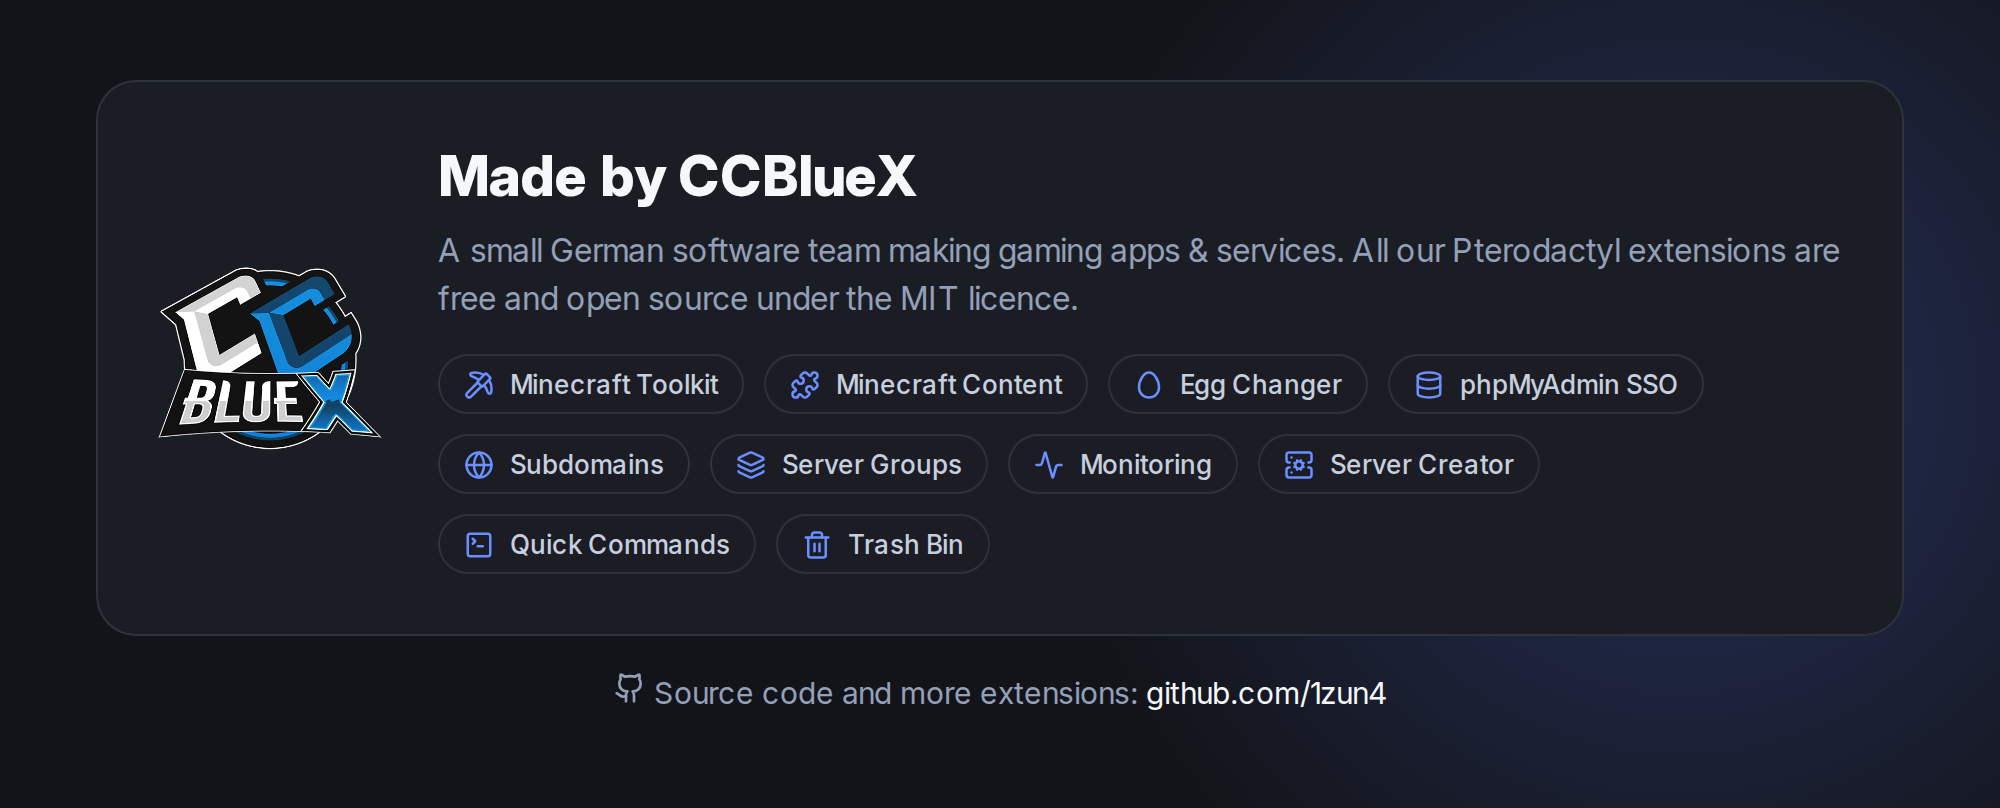
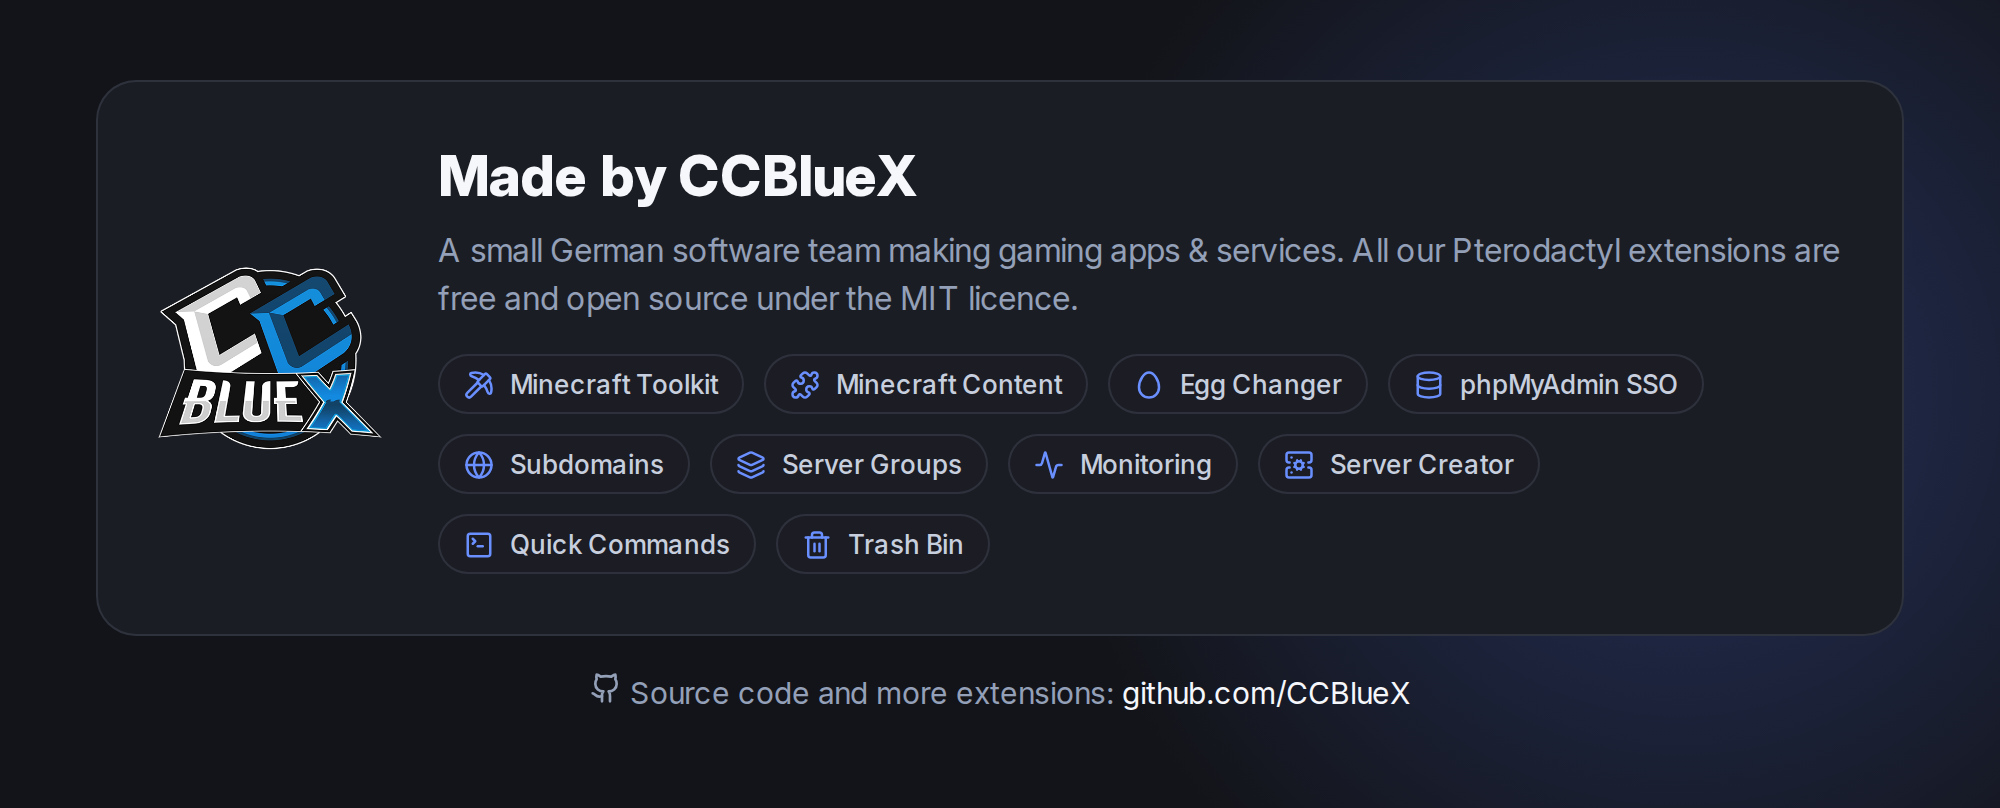
docs: move to ccbluex and hide node hostnames

Changed region(s): [[0.279, 0.8354, 0.713, 0.8973]]

diff --git a/README.md b/README.md
@@ -1,9 +1,9 @@
 # MCP for Pterodactyl
 
-[![Release](https://img.shields.io/github/v/release/1zun4/Pterodactyl-Extension-MCP?style=flat-square)](https://github.com/1zun4/Pterodactyl-Extension-MCP/releases/latest)
-[![Downloads](https://img.shields.io/github/downloads/1zun4/Pterodactyl-Extension-MCP/total?style=flat-square)](https://github.com/1zun4/Pterodactyl-Extension-MCP/releases)
+[![Release](https://img.shields.io/github/v/release/CCBlueX/Pterodactyl-Extension-MCP?style=flat-square)](https://github.com/CCBlueX/Pterodactyl-Extension-MCP/releases/latest)
+[![Downloads](https://img.shields.io/github/downloads/CCBlueX/Pterodactyl-Extension-MCP/total?style=flat-square)](https://github.com/CCBlueX/Pterodactyl-Extension-MCP/releases)
 [![Pterodactyl](https://img.shields.io/badge/Pterodactyl-2.0-0e4688?style=flat-square)](https://pterodactyl.io)
-[![License](https://img.shields.io/github/license/1zun4/Pterodactyl-Extension-MCP?style=flat-square)](LICENSE)
+[![License](https://img.shields.io/github/license/CCBlueX/Pterodactyl-Extension-MCP?style=flat-square)](LICENSE)
 
 Let AI assistants like Claude manage your game servers over the [Model Context Protocol](https://modelcontextprotocol.io).
 
@@ -11,7 +11,7 @@ Let AI assistants like Claude manage your game servers over the [Model Context P
 
 ## Install
 
-1. Download `mcp-<version>.pteroext` from the [latest release](https://github.com/1zun4/Pterodactyl-Extension-MCP/releases/latest).
+1. Download `mcp-<version>.pteroext` from the [latest release](https://github.com/CCBlueX/Pterodactyl-Extension-MCP/releases/latest).
 2. Open **Admin → Extensions**, click **Install** and pick the file.
 3. Enable it. Users find the setup steps under **Account → AI Assistants**.
 
